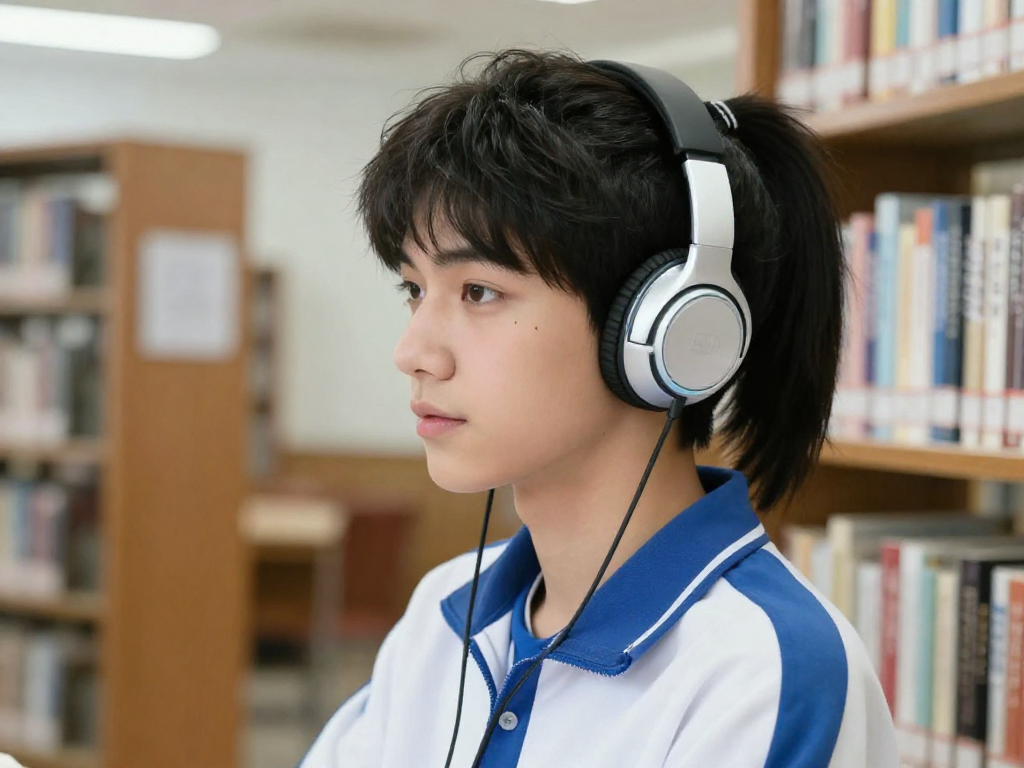
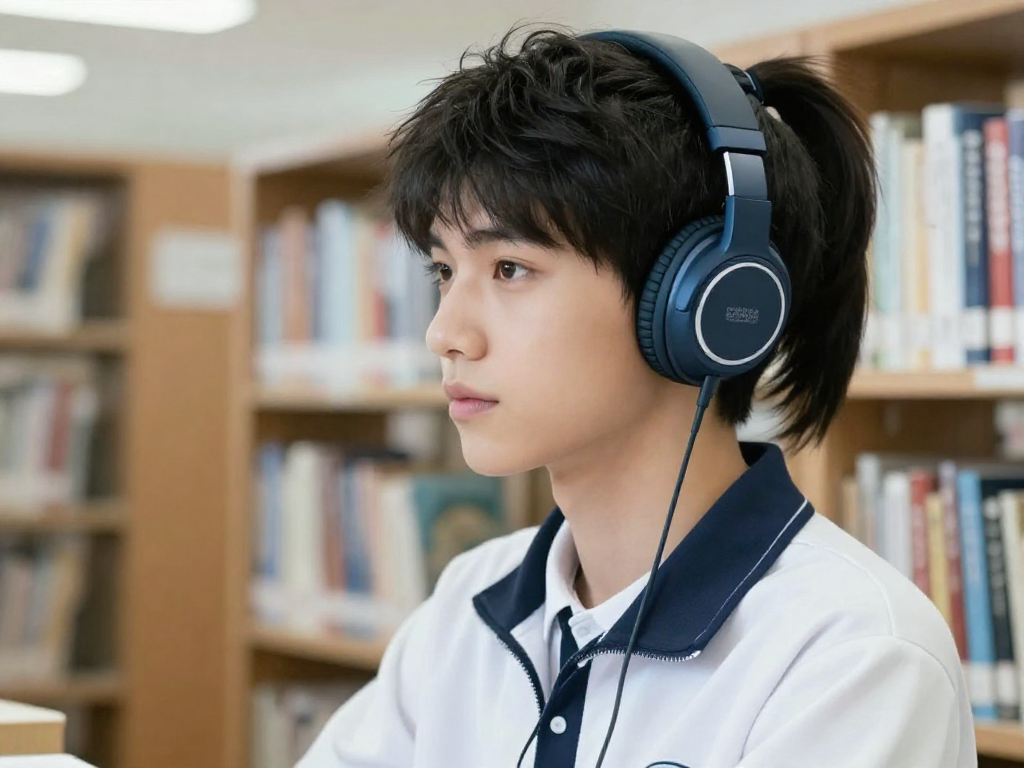
add new test images

diff --git a/zimage_test3.py b/zimage_test3.py
@@ -1,0 +1,39 @@
+import os
+from pathlib import Path
+
+from huggingface_hub import InferenceClient
+
+
+PROMPT = """
+masterpiece, best quality, highly detailed, fresh school-life illustration,
+bright youthful atmosphere, cool distant gaze,
+sharp refined eyes, small beauty mark under the eye,
+handsome schoolboy with polished campus-idol look, stylish over-ear headphones,
+side-profile composition, wearing headphones, immersed in music,
+inside a quiet school library, cool distant mood, reserved expression,
+centered face, full head visible, avatar-friendly composition
+""".strip()
+
+
+def main() -> None:
+    token = os.environ.get("HF_TOKEN")
+    if not token:
+        raise RuntimeError("HF_TOKEN is not set. Please export your Hugging Face token first.")
+
+    client = InferenceClient(
+        provider="fal-ai",
+        api_key=token,
+    )
+
+    image = client.text_to_image(
+        prompt=PROMPT,
+        model="Tongyi-MAI/Z-Image-Turbo",
+    )
+
+    output_path = Path("zimage_test3.png")
+    image.save(output_path)
+    print(f"saved to {output_path.resolve()}")
+
+
+if __name__ == "__main__":
+    main()

diff --git a/krea_test2.py b/krea_test2.py
@@ -1,0 +1,22 @@
+import os
+from huggingface_hub import InferenceClient
+
+client = InferenceClient(
+    provider="fal-ai",
+    api_key=os.environ["HF_TOKEN"],
+)
+
+image = client.text_to_image(
+    prompt="""
+masterpiece, best quality, highly detailed, fresh school-life illustration,
+bright youthful atmosphere, cool distant gaze,
+sharp refined eyes, small beauty mark under the eye,
+handsome schoolboy with polished campus-idol look, stylish over-ear headphones,
+side-profile composition, wearing headphones, immersed in music,
+inside a quiet school library, cool distant mood, reserved expression
+""",
+    model="krea/Krea-2-Turbo",
+)
+
+image.save("krea_test2.png")
+print("saved to krea_test.png")
